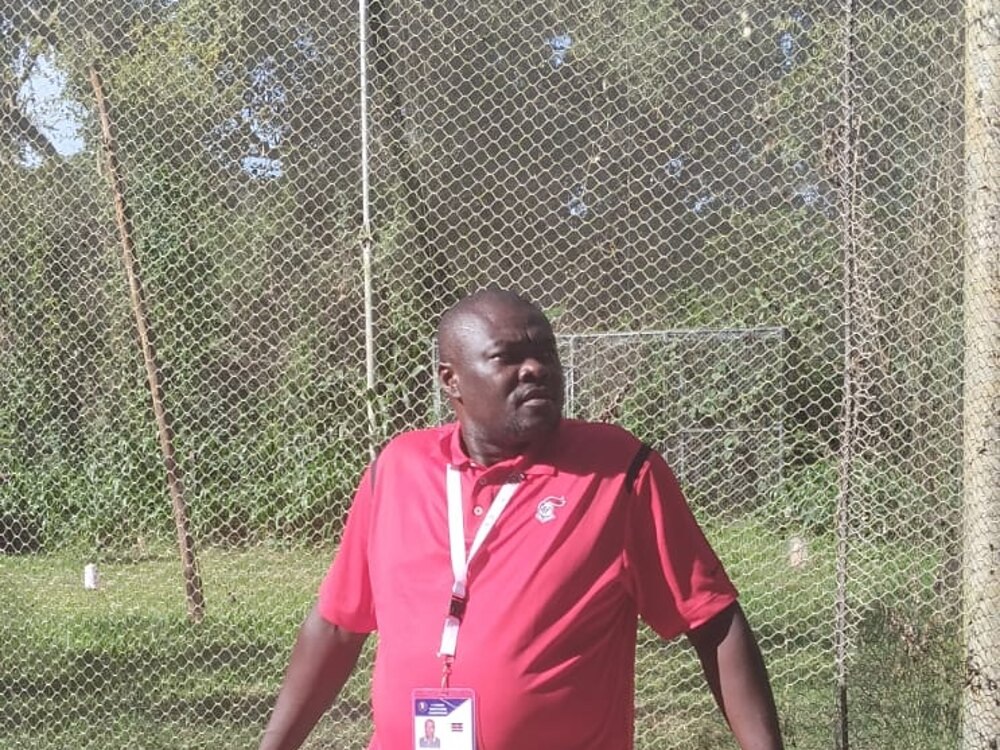
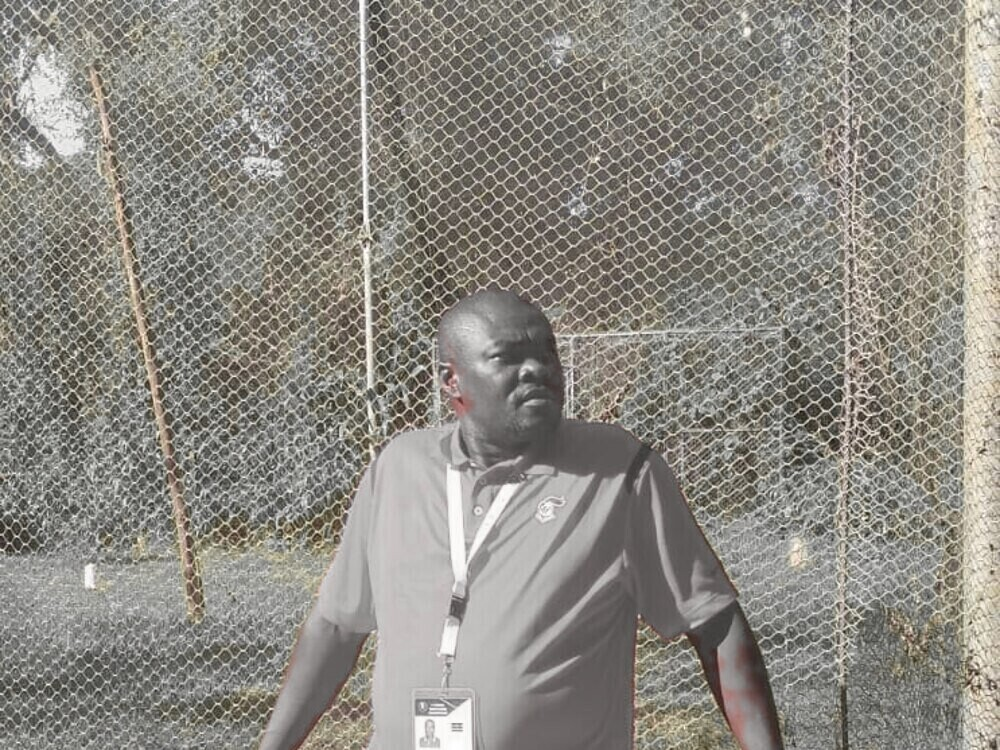
Photographs: take the green out of the picture library too
Two colours only means no green anywhere, so the remaining green in the
photographs was graded out as well — with a proper hue band-pass mask (47-61°
rising, 176-191° falling, gated by saturation) so the olive and yellow-green
end of the family goes with the true greens, and the effect never touches skin,
wood or fabric outside the green family:

* the roll-up boards and the club-kit bag in the shelf and shop photographs,
  the workbook covers and the classroom and window foliage;
* the foliage behind the President's, the Vice Chairperson's and the Treasurer's
  portraits and behind the two club-trip photographs, and the greenery in the
  Gladys travel set.

What is left is warm stone, charcoal, cream and wood, which sits with navy and
gold. Every graded file's untouched original is kept privately outside the
repository, so the grading is reversible in one command.

diff --git a/README.md b/README.md
@@ -94,12 +94,13 @@ the site.
   updates; the Tournament Floor wall uses tournament-prep 01/03/04/07/08 plus the mats.
 - **Mats (uploaded):** `assets/mats-vinyl.jpg` and `assets/mats-rubber.jpg`, extracted from
   `merchandise.zip` and used on the club shelf and in the photo wall.
-- **Tone:** the tournament-hall photographs (`tournament-prep-01…10`) carry one light
-  harmonisation — saturation 55% with a 6% gold tone — so the royal-blue tablecloths and red
-  chairs sit with the navy-and-gold palette instead of fighting it. The untouched originals
-  are kept privately outside the site. Product photographs (the mats, the shelf items and the
-  board still-life) are left at their true colours, because a buyer needs to see what the
-  product actually looks like.
+- **Tone:** every photograph on the site is graded to the two-colour palette. The
+  tournament-hall set carries saturation 55% with a 6% gold tone, so the royal-blue
+  tablecloths and red chairs sit with the navy and gold instead of fighting them, and every
+  green in the library — the roll-up boards, the club-kit bag, the workbooks, the foliage
+  behind the portraits and the classroom plants — is neutralised to warm stone and charcoal,
+  so no page shows a third hue. The untouched originals of every graded photograph are kept
+  privately outside the site; say the word and they go back.
 - **Club trips (uploaded):** `assets/club/vice-chairperson-on-the-road.jpg` and
   `assets/club/vice-chairperson-out-of-town.jpg`, cropped from the two 8 October uploads
   (`Mr. Ochieng 2.jpeg` and `Mr. Ochieng 3.jpeg`), shown in the about-page gallery.
